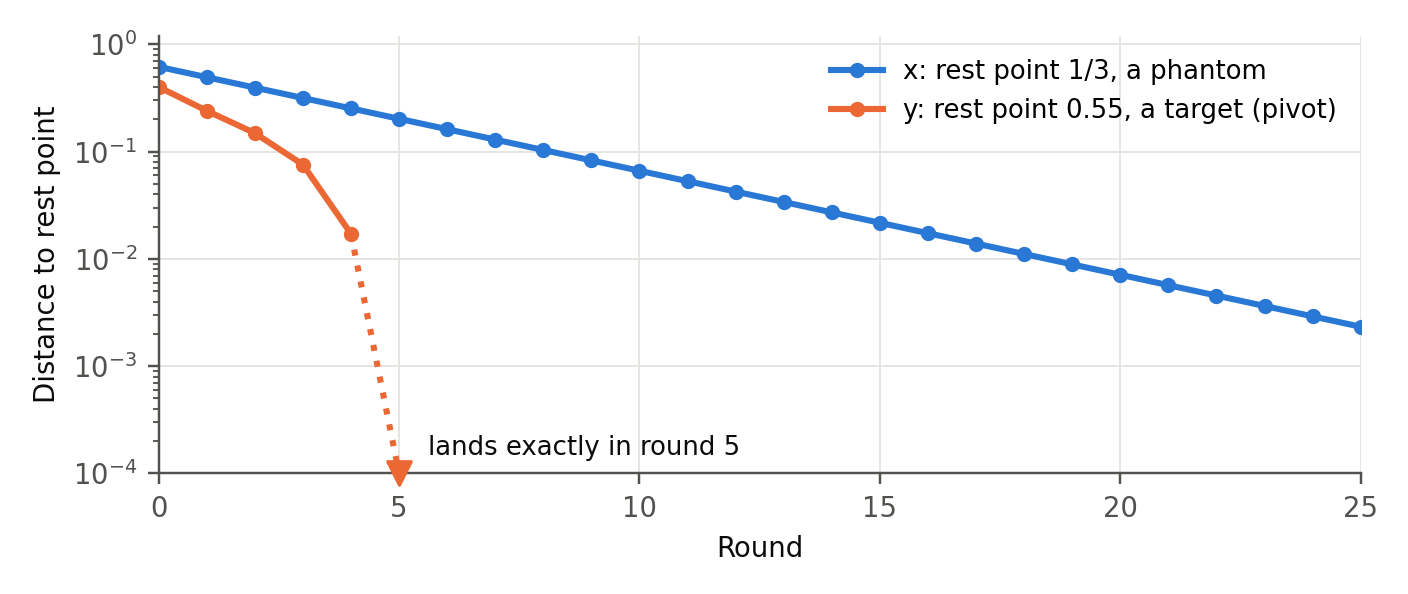
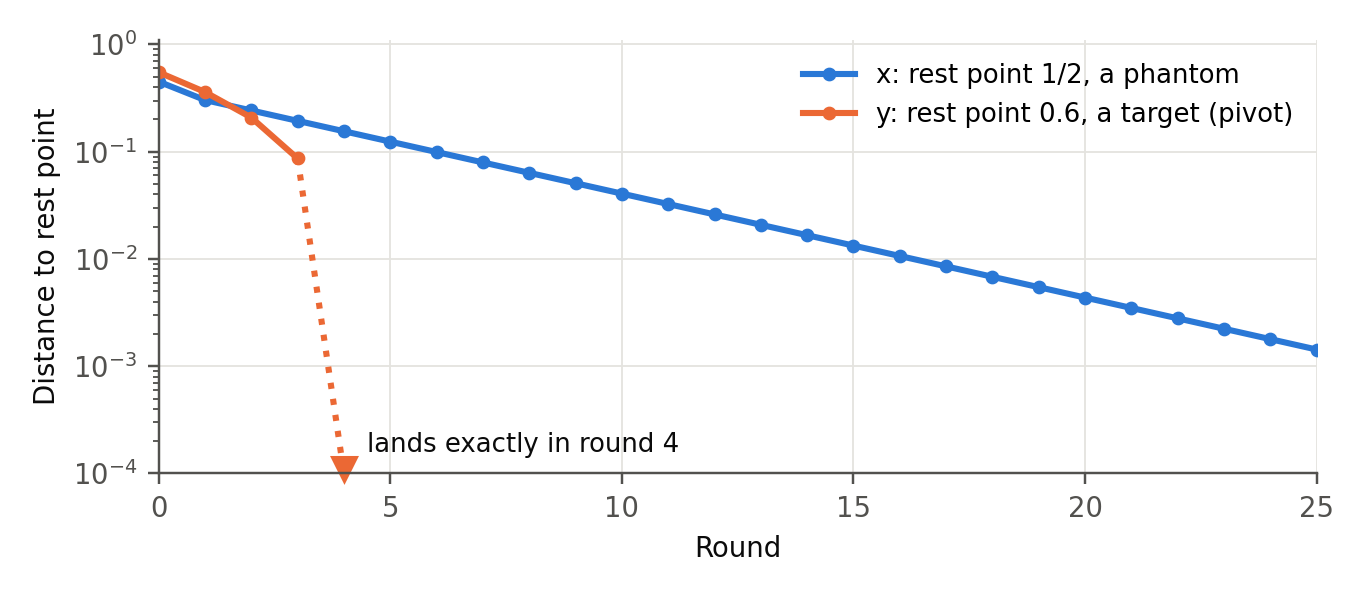
Redraw the dynamic game figures with two influencers

diff --git a/doggame/summary_figures.py b/doggame/summary_figures.py
@@ -1,9 +1,9 @@
 """The nine figures of the key-results summary (doggame.summary_pdf), as fig1.png and fig3.png ... fig10.png (fig8.png
 is the summary's Fig. 2, fig9.png its Fig. 7 and fig10.png its Fig. 9), and two more
 for the paper: fig8 (paths of the plain and compensated receivers) and fig9 (the welfare weight of Proposition 12).
-fig11 and fig12 show the dynamic game for the averaging and the median receiver: where the dog moves next from every
-position with paths and reports (fig11), and each influencer's equilibrium response at every position (fig12).
-They are not part of the summary; draw them with fig11(path) and fig12(path).
+fig11, fig12 and fig13 show the dynamic game with two influencers under averaging: where the dog moves next from every
+position with paths and reports (fig11), each influencer's equilibrium response at every position (fig12), and the
+distance to the rest point by round (fig13). They are not part of the summary; draw them with fig11(path) and so on.
 
 Figures 1 and 2 solve small games directly (doggame.mechanisms); the others read the saved runs:
 Fig. 3 study mechanisms_wide, Fig. 4 mechanisms_phantoms and mechanisms_compensated_design, Fig. 5
@@ -26,6 +26,7 @@ from matplotlib.lines import Line2D
 
 from doggame import dog_game_summary as S
 from doggame import mechanisms as M
+from doggame.inertia_theory import target
 
 OUTPUT = "build/summary"
 COLORS = ["#2a78d6", "#eb6834", "#1baf7a", "#eda100"]
@@ -78,7 +79,7 @@ def ends(ax, path, color, marker="o", size=70):
     ax.scatter(*path[-1], s=size, marker=marker, color=color, zorder=7 if marker == "D" else 5)
 
 
-def panel(ax, targets, dog, actions, title):
+def panel(ax, targets, dog, actions, title, mean_target=True):
     square(ax, title)
     for i, t in enumerate(targets):
         a = actions[:, i] + (i - (len(targets) - 1) / 2) * 0.012  # players sharing a corner stay visible
@@ -87,7 +88,8 @@ def panel(ax, targets, dog, actions, title):
         ax.scatter(*t, s=230, marker="*", facecolors="white", edgecolors=COLORS[i], lw=1.8, zorder=6)
     arrows(ax, dog, INK, size=6)
     ends(ax, dog, INK, marker="D")
-    ax.scatter(*targets.mean(0), s=60, marker="P", color=GREY, zorder=4)
+    if mean_target:
+        ax.scatter(*targets.mean(0), s=60, marker="P", color=GREY, zorder=4)
 
 
 def players(n):
@@ -332,88 +334,117 @@ def fig10(out, rows):
         fig.savefig(out, dpi=220), plt.close(fig)
 
 
-NAMES = {"mean": "Averaging", "median": "Median"}
+TWO_TARGETS, TWO_WEIGHTS, PHANTOM, TWO_START = np.array([[0.3, 0.6], [0.7, 0.95]]), np.full(2, 0.5), 0.5, (0.95, 0.05)
 
 
-def _dynamic(rule, targets, w, w0):
-    """Equilibrium targets of each coordinate, and the dog's next position from an array of positions (n, 2)."""
-    aims = aims_of(rule, targets, w, w0)
-    return aims, lambda p: np.stack([M.step(rule, p[:, c], aims[c], w, w0) for c in range(2)], 1)
+def two_influencers(w0, discount=0.9):
+    """The game of fig11 to fig13. In x the targets straddle the phantom 1/2, so each influencer aims at the closed form of
+    Proposition 2. In y influencer 1 is the pivot and aims at its target, and influencer 2 holds the top edge (Proposition
+    18). Returns the aims of each coordinate and the next position from an array of positions (n, 2)."""
+    aims = [np.array([target(t, PHANTOM, w0, discount) for t in TWO_TARGETS[:, 0]]), np.array([TWO_TARGETS[0, 1], 1.0])]
+    return aims, lambda p: np.stack([M.step("mean", p[:, c], aims[c], TWO_WEIGHTS, w0) for c in range(2)], 1)
+
+
+def two_path(w0, start, rounds):
+    """The dog's positions (rounds + 1, 2) and the reports (rounds, 2, 2) from a start."""
+    aims, move = two_influencers(w0)
+    dog = [np.array([start], dtype=float)]
+    for _ in range(rounds):
+        dog.append(move(dog[-1]))
+    dog = np.concatenate(dog)
+    return dog, np.stack([[M.reports("mean", p[c], aims[c], TWO_WEIGHTS, w0) for c in range(2)] for p in dog[:-1]]).transpose(0, 2, 1)
+
+
+def phantom_lines(ax):
+    for line in (([PHANTOM, PHANTOM], [0, 1]), ([0, 1], [PHANTOM, PHANTOM])):
+        ax.plot(*line, color=COLORS[2], lw=1.0, ls=(0, (4, 3)), zorder=1.5)
 
 
 def fig11(out, w0=0.8, rounds=25):
-    """Averaging and median receivers in the dynamic game: where the dog moves next from every position, with paths from
-    the corners (left), and one equilibrium path with every report (right). Under averaging the y-coordinate has a pivot
-    (influencer 3), so the dog lands exactly on y = 0.55 (Proposition 18) while x only approaches 1/3. Returns, per
-    rule, the round in which the path lands exactly on its end point in each coordinate (None if it never does)."""
-    targets, w = np.array([[0.15, 0.7], [0.3, 0.2], [0.9, 0.55]]), np.full(3, 1 / 3)
-    grid, corners, found = np.linspace(0.03, 0.97, 15), np.array([[0.02, 0.02], [0.98, 0.02], [0.02, 0.98], [0.98, 0.98]]), []
+    """Where the dog moves next from every position, with paths from the corners (left), and one equilibrium path with every
+    report (right). The dog lands exactly on y = 0.6 (Proposition 18), while x only approaches the phantom 1/2. Returns, per
+    coordinate, the round in which the path lands exactly on its end point (None if it never does)."""
+    grid, corners = np.linspace(0.03, 0.97, 15), np.array([[0.02, 0.02], [0.98, 0.02], [0.02, 0.98], [0.98, 0.98]])
+    _, move = two_influencers(w0)
+    px, py = np.meshgrid(grid, grid)
+    nxt = move(np.stack([px.ravel(), py.ravel()], 1)).reshape(*px.shape, 2)
+    u, v = nxt[..., 0] - px, nxt[..., 1] - py
+    speed = np.hypot(u, v)
     with plt.rc_context(SQUARE):
-        fig, axes = plt.subplots(2, 2, figsize=(7.0, 8.6))
-        for r, rule in enumerate(("mean", "median")):
-            aims, move = _dynamic(rule, targets, w, w0)
-            u, v = np.meshgrid(*[M.step(rule, grid, aims[c], w, w0) - grid for c in range(2)])  # each coordinate on its own
-            speed = np.hypot(u, v)
-            ax = axes[r, 0]
-            square(ax, f"{NAMES[rule]}: where the dog moves next\n(largest step {speed.max():.2f} per round)")
-            ax.quiver(*np.meshgrid(grid, grid), u, v, speed, cmap="Greys", clim=(-0.3 * speed.max(), speed.max()), angles="xy",
-                      scale_units="xy", scale=speed.max() / (0.9 * (grid[1] - grid[0])), width=0.004, headwidth=4, headlength=4.5, zorder=2)
-            paths = [corners]
-            for _ in range(60):
-                paths.append(move(paths[-1]))
-            paths = np.array(paths)
-            for i in range(len(corners)):
-                ax.plot(paths[:, i, 0], paths[:, i, 1], color=INK, lw=1.1, zorder=3)
-            ax.scatter(*paths[-1, 0], s=55, marker="D", color=INK, zorder=7)
-            for i, t in enumerate(targets):
-                ax.scatter(*t, s=200, marker="*", facecolors="white", edgecolors=COLORS[i], lw=1.6, zorder=6)
-            ax.scatter(*targets.mean(0), s=50, marker="P", color=GREY, zorder=5)
-            dog, actions = simulate(rule, targets, (0.95, 0.95), w0, rounds)
-            panel(axes[r, 1], targets, dog, actions, f"{NAMES[rule]}: one path, {rounds} rounds\nwith every report")
-            end = paths[-1, 0]
-            found.append(tuple(next((t for t in range(len(dog)) if dog[t, c] == end[c]), None) for c in range(2)))
-        influencers = players(3)[:-1]
-        for h in influencers:
+        fig, (a, b) = plt.subplots(1, 2, figsize=(7.0, 4.0))
+        square(a, f"Where the dog moves next\n(largest step {speed.max():.2f} per round)")
+        phantom_lines(a)
+        a.quiver(px, py, u, v, speed, cmap="Greys", clim=(-0.3 * speed.max(), speed.max()), angles="xy", scale_units="xy",
+                 scale=speed.max() / (0.9 * (grid[1] - grid[0])), width=0.004, headwidth=4, headlength=4.5, zorder=2)
+        paths = [corners]
+        for _ in range(60):
+            paths.append(move(paths[-1]))
+        paths = np.array(paths)
+        for i in range(len(corners)):
+            a.plot(paths[:, i, 0], paths[:, i, 1], color=INK, lw=1.1, zorder=3)
+        a.scatter(PHANTOM, TWO_TARGETS[0, 1], s=55, marker="D", color=INK, zorder=7)
+        for i, t in enumerate(TWO_TARGETS):
+            a.scatter(*t, s=200, marker="*", facecolors="white", edgecolors=COLORS[i], lw=1.6, zorder=6)
+        dog, actions = two_path(w0, TWO_START, rounds)
+        phantom_lines(b)
+        panel(b, TWO_TARGETS, dog, actions, f"One path, {rounds} rounds,\nwith every report", mean_target=False)
+        handles = players(2)[:-1]
+        for h in handles:
             h.set_label(h.get_label().replace("player", "influencer"))
-        fig.legend(handles=influencers + [Line2D([], [], marker="D", ls="", color=INK, ms=7, label="dog (filled: end)"),
-                                          Line2D([], [], marker="P", ls="", color=GREY, ms=8, label="mean target")],
-                   loc="upper center", ncol=4, bbox_to_anchor=(0.5, 1.0), frameon=False, fontsize=7.8, columnspacing=1.1, handletextpad=0.3)
-        fig.text(0.5, 0.008, f"Feedback equilibrium, inertia {w0}. Left: arrow = the dog's one-round move from each position\n(scaled to "
-                 "the panel's largest step, darker = faster); lines: paths from the four corners.\nRight: start (0.95, 0.95); circles = "
-                 "each influencer's report each round.", ha="center", fontsize=7.2, color=INK2)
-        fig.tight_layout(rect=(0, 0.06, 1, 0.92), h_pad=4.0)
+        handles += [Line2D([], [], marker="D", ls="", color=INK, ms=7, label="dog (filled: end)"),
+                    Line2D([], [], color=COLORS[2], lw=1.1, ls=(0, (4, 3)), label="phantom (1/2)")]
+        fig.legend(handles=handles, loc="upper center", ncol=3, bbox_to_anchor=(0.5, 1.0), frameon=False, fontsize=7.8,
+                   columnspacing=1.4, handletextpad=0.3)
+        fig.tight_layout(rect=(0, 0, 1, 0.88))
         fig.savefig(out, dpi=220), plt.close(fig)
-    return found
+    return tuple(next((t for t in range(len(dog)) if abs(dog[t, c] - end) < 1e-12), None)
+                 for c, end in enumerate((PHANTOM, TWO_TARGETS[0, 1])))
 
 
 def fig12(out, w0=0.8):
-    """The influencers' response vector fields in the dynamic game: at each dog position, an arrow toward the report each
-    influencer makes there in equilibrium (fixed length; darker = the report is farther away), and the reports as circles,
-    for the averaging and the median receiver. Median reports are those of Proposition 20: unclipped, each lies on the
-    line from the dog through the influencer's target. Returns, per rule and influencer, the number of distinct reports."""
-    targets, w = np.array([[0.15, 0.7], [0.3, 0.2], [0.9, 0.55]]), np.full(3, 1 / 3)
+    """The influencers' response vector fields: at each dog position, an arrow toward the report each influencer makes there
+    in equilibrium (fixed length; darker = the report is farther away), and the reports as circles. Returns, per influencer,
+    the number of distinct reports."""
     grid, counts = np.linspace(0.05, 0.95, 11), []
     x, y = np.meshgrid(grid, grid)
+    aims, _ = two_influencers(w0)
+    reports = [np.array([M.reports("mean", z, aims[c], TWO_WEIGHTS, w0) for z in grid]) for c in range(2)]  # (position, influencer)
     with plt.rc_context(SQUARE):
-        fig, axes = plt.subplots(2, 3, figsize=(9.9, 7.2))
-        for r, rule in enumerate(("mean", "median")):
-            aims, _ = _dynamic(rule, targets, w, w0)
-            reports = [np.array([M.reports(rule, z, aims[c], w, w0) for z in grid]) for c in range(2)]  # (position, influencer)
-            for i in range(len(targets)):
-                ax = axes[r, i]
-                square(ax, f"{NAMES[rule]}: influencer {i + 1}'s report")
-                rx, ry = np.meshgrid(reports[0][:, i], reports[1][:, i])
-                far = np.hypot(rx - x, ry - y)
-                ax.quiver(x, y, (rx - x) / far, (ry - y) / far, far, cmap="Greys", clim=(-0.5, 1.4), angles="xy", scale_units="xy",
-                          scale=1 / (0.8 * (grid[1] - grid[0])), width=0.005, headwidth=3.5, headlength=4, zorder=3)
-                ax.scatter(rx, ry, s=16, facecolors="white", edgecolors=COLORS[i], lw=1.1, zorder=5, clip_on=False)
-                ax.scatter(*targets[i], s=200, marker="*", facecolors="white", edgecolors=COLORS[i], lw=1.6, zorder=6)
-                counts.append(len(np.unique(np.round(np.stack([rx.ravel(), ry.ravel()], 1), 6), axis=0)))
-        fig.text(0.5, 0.008, f"Feedback equilibrium, inertia {w0}, targets shown as stars. Arrows point from the dog's position "
-                 "toward the influencer's report there; circles = the reports.", ha="center", fontsize=7.2, color=INK2)
-        fig.tight_layout(rect=(0, 0.03, 1, 1), h_pad=2.0)
+        fig, axes = plt.subplots(1, 2, figsize=(6.6, 3.5))
+        for i, ax in enumerate(axes):
+            square(ax, f"Influencer {i + 1}'s report")
+            rx, ry = np.meshgrid(reports[0][:, i], reports[1][:, i])
+            far = np.hypot(rx - x, ry - y)
+            ax.quiver(x, y, (rx - x) / far, (ry - y) / far, far, cmap="Greys", clim=(-0.5, 1.4), angles="xy", scale_units="xy",
+                      scale=1 / (0.8 * (grid[1] - grid[0])), width=0.005, headwidth=3.5, headlength=4, zorder=3)
+            ax.scatter(rx, ry, s=16, facecolors="white", edgecolors=COLORS[i], lw=1.1, zorder=5, clip_on=False)
+            ax.scatter(*TWO_TARGETS[i], s=200, marker="*", facecolors="white", edgecolors=COLORS[i], lw=1.6, zorder=6)
+            counts.append(len(np.unique(np.round(np.stack([rx.ravel(), ry.ravel()], 1), 6), axis=0)))
+        fig.tight_layout()
         fig.savefig(out, dpi=220), plt.close(fig)
     return counts
+
+
+def fig13(out, w0=0.8, rounds=25):
+    """Distance to the rest point by round, on a log scale, on the path of fig11. Returns the round in which y lands and the
+    distance left in x at the last round."""
+    dog, _ = two_path(w0, TWO_START, rounds)
+    gap = np.abs(dog - np.array([PHANTOM, TWO_TARGETS[0, 1]]))
+    land = int(np.argmax(gap[:, 1] < 1e-12))
+    with plt.rc_context(CHART):
+        fig, ax = plt.subplots(figsize=(6.2, 2.7))
+        r = np.arange(rounds + 1)
+        ax.semilogy(r, gap[:, 0], "-o", ms=3.5, lw=2, color=COLORS[0], label="x: rest point 1/2, a phantom")
+        ax.semilogy(r[:land], gap[:land, 1], "-o", ms=3.5, lw=2, color=COLORS[1], label="y: rest point 0.6, a target (pivot)")
+        ax.plot([land - 1, land], [gap[land - 1, 1], 1e-4], ":", lw=2, color=COLORS[1])
+        ax.plot([land], [1.1e-4], marker="v", ms=8, color=COLORS[1], clip_on=False)
+        ax.annotate(f"lands exactly in round {land}", (land + 0.5, 1.6e-4), fontsize=8.5, color=INK)
+        ax.set_ylim(1e-4, 1.1), ax.set_xlim(0, rounds)
+        ax.set_xlabel("Round"), ax.set_ylabel("Distance to rest point")
+        ax.legend(loc="upper right", fontsize=8.5)
+        fig.tight_layout()
+        fig.savefig(out, dpi=220), plt.close(fig)
+    return land, float(gap[rounds, 0])
 
 
 def paper(out="paper/figures", results=S.STUDIES):

diff --git a/doggame/results_report.py b/doggame/results_report.py
@@ -268,15 +268,14 @@ def build(out=OUTPUT):
                   "(U - t)/U &ge; &lambda; at the bottom). Otherwise the equilibrium in target form still lands exactly in random games "
                   "with three and five influencers (numerical), but in 2 of 12 games with five influencers at inertia 0.9 it is not "
                   "an equilibrium (largest gain 0.005).", body),
-        fig(folder, "fig11.png", "<b>Fig. 6.</b> Averaging and median receivers in the dynamic game, inertia 0.8, targets and start as in "
-            "Fig. 1. Left: the receiver's one-round move from each position (scaled per panel, darker = faster) and paths from the four "
-            "corners. Right: one equilibrium path with every report. The averaging receiver lands exactly on y = 0.55 in round 5, "
-            "because the y-coordinate has a pivot (influencer 3), but only approaches x = 1/3; the median receiver lands exactly in "
-            "both coordinates (rounds 6 and 3).", width=4.6 * inch),
+        fig(folder, "fig11.png", "<b>Fig. 6.</b> The dynamic game with two influencers under averaging, equal weights, targets (0.3, 0.6) and "
+            "(0.7, 0.95), inertia 0.8. Left: the receiver's one-round move from each position (darker = faster) and paths from the four "
+            "corners. Right: one equilibrium path with every report. The receiver lands exactly on y = 0.6 in round 4, because influencer 1 "
+            "is the pivot in y, but only approaches the phantom x = 1/2.", width=6.0 * inch),
         fig(folder, "fig12.png", "<b>Fig. 7.</b> Response vector fields of the same game: at each receiver position, an arrow toward the "
             "report each influencer makes there in equilibrium (fixed length, darker = farther), and the reports themselves (circles). "
-            "Under averaging the influencers report at the edges, with two or three distinct reports each over the whole square; under "
-            "the median the reports move with the receiver's position (8, 5 and 5 distinct reports)."),
+            "Most reports sit on an edge. Influencer 2 always reports 1 in y; influencer 1 is the pivot in y, so its report there "
+            "depends on where the receiver is."),
 
         Paragraph("5. Cooling off: some inertia can help", h),
         Paragraph("Without noise, inertia only slows the outcome. If each round's new aggregate is noisy, inertia filters it: for the "

diff --git a/tests/test_summary_figures.py b/tests/test_summary_figures.py
@@ -1,6 +1,7 @@
 import numpy as np
 
 from doggame import dog_game_summary as S
+from doggame import mechanisms as M
 from doggame import summary_figures as F
 
 
@@ -16,7 +17,16 @@ def test_figure_8_times_each_receiver_and_the_paper_figures_are_vector_pdfs(tmp_
     assert sorted(p.name for p in out.glob("*.pdf")) == ["compensated_paths.pdf", "design.pdf", "reversal.pdf", "weight.pdf"]
 
 
-def test_the_dynamic_game_figures_show_exact_arrival_only_where_the_receiver_can_reach_its_end(tmp_path):
-    # averaging: x has no pivot and only approaches 1/3, y has one and lands in round 5; the median lands in both
-    assert F.fig11(tmp_path / "fig11.png") == [(None, 5), (6, 3)]
-    assert F.fig12(tmp_path / "fig12.png") == [2, 3, 3, 15, 20, 10]  # averaging reports stay near the edges, median ones move
+def test_the_dynamic_game_figures_show_exact_arrival_only_where_a_target_decides(tmp_path):
+    # x ends on the phantom 1/2 and never arrives, y lands on influencer 1's target in round 4 (Proposition 18)
+    assert F.fig11(tmp_path / "fig11.png") == (None, 4)
+    assert F.fig12(tmp_path / "fig12.png") == [6, 2]
+    land, left = F.fig13(tmp_path / "fig13.png")
+    assert land == 4 and round(left, 4) == 0.0014
+
+
+def test_the_game_of_the_dynamic_figures_is_an_equilibrium_in_both_coordinates():
+    aims, _ = F.two_influencers(0.8)
+    for c in range(2):
+        policy = lambda x, c=c: M.reports("mean", x, aims[c], F.TWO_WEIGHTS, 0.8)
+        assert M.deviation_gain("mean", policy, F.TWO_TARGETS[:, c], F.TWO_WEIGHTS, 0.8) < 1e-6

diff --git a/docs/CODE_GUIDE.md b/docs/CODE_GUIDE.md
@@ -18,11 +18,11 @@ files. The receiver (mechanism) results need only a small part of that:
 | `doggame/dog_game_summary.py` | Only the `mechanisms*_table` functions turn saved runs into the numbers in the docs | about 250 lines |
 | `results/dog_game_studies.jsonl` | The saved runs, one JSON row per run | data |
 | `tests/test_mechanisms.py` | 35 tests of the claims below | |
-| `doggame/summary_figures.py` | The nine figures of the key-results summary PDF (`fig8`, `fig9` and `fig10` are its Figs. 2, 7 and 9), `fig11` and `fig12` (the dynamic game for averaging and median: the dog's vector field with paths and reports, and each influencer's response field), and `paper()`, which writes four of them as vector PDFs | one function per figure |
+| `doggame/summary_figures.py` | The nine figures of the key-results summary PDF (`fig8`, `fig9` and `fig10` are its Figs. 2, 7 and 9), `fig11`, `fig12` and `fig13` (the dynamic game with two influencers under averaging: the dog's vector field with paths and reports, each influencer's response field, and the distance to the rest point), and `paper()`, which writes four of them as vector PDFs | one function per figure |
 | `doggame/summary_pdf.py` | The key-results summary PDF itself: text, figures, captions | |
 | `doggame/results_report.py` | The eight-page results report: results at a glance, recent updates, and the seven main graphs and trajectories (`fig8`, `fig10`, `fig3`, `fig4`, `fig6`, and `fig11`, `fig12` of the dynamic game) | |
 | `docs/INERTIA_PROOFS.md` | The proofs (Propositions 1 to 5 and 7 to 20) | |
-| `docs/Dog_Game_Results_and_Updates.pdf` | A snapshot of the latest results, linked from the site; `docs/figures/` holds its plots (`fig11`, `fig12`, and the distance to the rest point) | |
+| `docs/Dog_Game_Results_and_Updates.pdf` | A snapshot of the latest results, linked from the site; `docs/figures/` holds its plots (`fig11`, `fig12` and `fig13`) | |
 
 The policy-gradient results use a second, separate set: `env.py` (the game), `agents.py` and `networks.py`
 (the policies), `train.py` and `train_ac.py` (REINFORCE, A2C, PPO), `verify.py` (exploitability),
